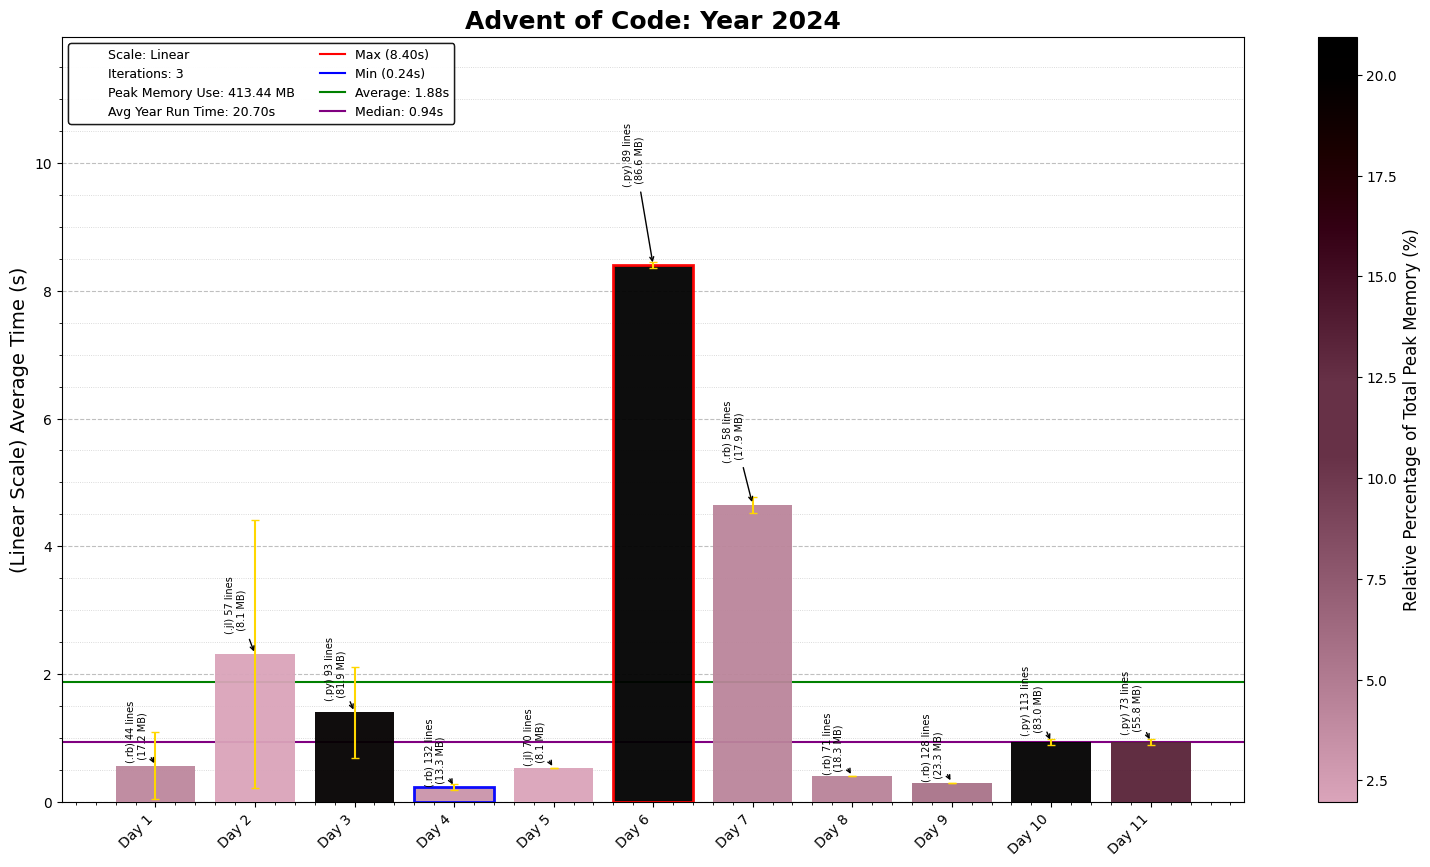
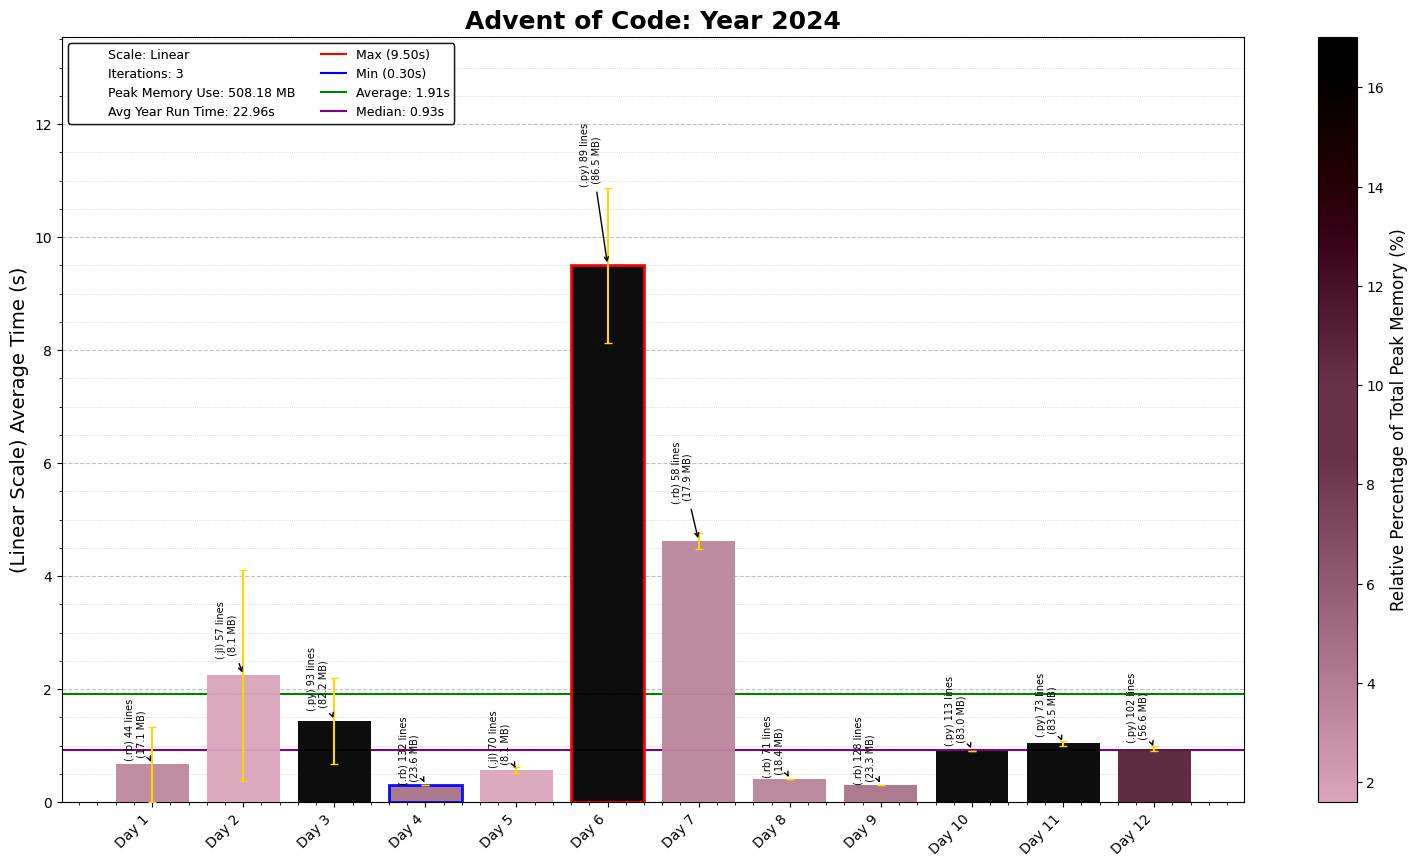
2024 Day 12

diff --git a/2024/12/2024Day12.py b/2024/12/2024Day12.py
@@ -1,0 +1,102 @@
+"""Advent of Code - Day 12, Year 2024
+Solution Started: Dec 12, 2024
+Puzzle Link: https://adventofcode.com/2024/day/12
+Solution by: abbasmoosajee07
+Brief: [Fencing and Gardens]
+"""
+
+#!/usr/bin/env python3
+
+import os, re, copy
+import numpy as np
+import pandas as pd
+import matplotlib.pyplot as plt
+from collections import deque
+
+# Load the input data from the specified file path
+D12_file = "Day12_input.txt"
+D12_file_path = os.path.join(os.path.dirname(os.path.abspath(__file__)), D12_file)
+
+# Read and sort input data into a grid
+with open(D12_file_path) as file:
+    input_data = file.read().strip().split('\n')
+    input_map = [list(row) for row in input_data]
+
+
+def get_region_plants(grid, pos, visited_global):
+    """Calculate area, total perimeter, and bulk fence perimeter for a given region."""
+    rows, cols = len(grid), len(grid[0])
+    target_value = grid[pos[0]][pos[1]]
+
+    DIRECTIONS = [(-1, 0), (1, 0), (0, -1), (0, 1)]  # Up, Down, Left, Right
+
+    visited_local = set()
+    queue = deque([pos])
+    area = 0
+    perimeter = 0
+    perimeter_map = {}
+
+    while queue:
+        cur_row, cur_col = queue.popleft()
+        if (cur_row, cur_col) in visited_local or (cur_row, cur_col) in visited_global:
+            continue
+        visited_local.add((cur_row, cur_col))
+        visited_global.add((cur_row, cur_col))
+        area += 1
+
+        for dr, dc in DIRECTIONS:
+            new_row, new_col = cur_row + dr, cur_col + dc
+            if 0 <= new_row < rows and 0 <= new_col < cols:
+                if grid[new_row][new_col] == target_value:
+                    if (new_row, new_col) not in visited_local:
+                        queue.append((new_row, new_col))
+                else:
+                    perimeter += 1
+                    if (dr, dc) not in perimeter_map:
+                        perimeter_map[(dr, dc)] = set()
+                    perimeter_map[(dr, dc)].add((cur_row, cur_col))
+            else:
+                perimeter += 1
+                if (dr, dc) not in perimeter_map:
+                    perimeter_map[(dr, dc)] = set()
+                perimeter_map[(dr, dc)].add((cur_row, cur_col))
+
+    sides = 0
+    for direction, positions in perimeter_map.items():
+        seen_sides = set()
+        for pos in positions:
+            if pos not in seen_sides:
+                sides += 1
+                queue = deque([pos])
+                while queue:
+                    r, c = queue.popleft()
+                    if (r, c) in seen_sides:
+                        continue
+                    seen_sides.add((r, c))
+                    for dr, dc in DIRECTIONS:
+                        nr, nc = r + dr, c + dc
+                        if (nr, nc) in positions:
+                            queue.append((nr, nc))
+
+    return visited_local, area, perimeter, sides
+
+def calc_fence_price(grid):
+    """Calculate the total and bulk fence prices for all regions in the grid."""
+    visited_global = set()
+    total_price = 0
+    bulk_price = 0
+
+    for row_no, row in enumerate(grid):
+        for col_no, plant in enumerate(row):
+            pos = (row_no, col_no)
+            if pos not in visited_global:
+                region, area, total_fence, bulk_fence = get_region_plants(grid, pos, visited_global)
+                total_price += (total_fence * area)
+                bulk_price += (bulk_fence * area)
+                # print(f"{plant}, area={area}, total_fence={total_fence}, bulk_fence={bulk_fence}")
+
+    return total_price, bulk_price
+
+total_price, bulk_price = calc_fence_price(input_data)
+print("Part 1:", total_price)
+print("Part 2:", bulk_price)

diff --git a/2024/README_2024.md b/2024/README_2024.md
@@ -15,3 +15,4 @@ This repository contains coding solutions for the 2024 Advent of Code. Its the f
 9. **Day 9- Disk Fragmenter**: *Ruby* | Free up disk space by removing empty space and rearranging files.
 10. **Day 10- Hoof it**: *Python* | Simple BFS to find all valid paths on a 2d grid. Pretty standard algorithm that i adapted.
 11. **Day 11- Plutonian Pebbles**: *Python* | Exponentially increasing lists, that becomes way more easy to solve when you switch to dictionaries and counters.
+12. **Day 12- Garden Groups**: ** | Pretty simple neighbour searching algorithm, with some added complexity for finding perimeter and areas, Part 2 was kinda tough but got it in the end
